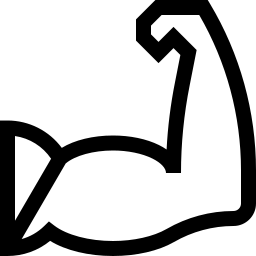
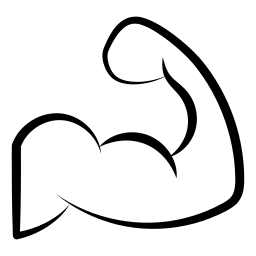
improved staerke image

diff --git a/ImagoApp/ImagoApp/Views/CustomControls/AttributeExperienceDialogView.xaml b/ImagoApp/ImagoApp/Views/CustomControls/AttributeExperienceDialogView.xaml
@@ -59,7 +59,7 @@
                                                         <Style.Triggers>
                                                             <DataTrigger Binding="{Binding .}"
                                                                TargetType="Image" Value="Bewegung">
-                                                                <Setter Property="Source" Value="Images/bewegung.png" />
+                                                                <Setter Property="Source" Value="Images/staerke.png" />
                                                             </DataTrigger>
                                                             <DataTrigger Binding="{Binding .}"
                                                                TargetType="Image" Value="Nahkampf">

diff --git a/ImagoApp/ImagoApp/Views/SkillPage.xaml b/ImagoApp/ImagoApp/Views/SkillPage.xaml
@@ -137,7 +137,7 @@
                                 <RowDefinition Height="Auto" />
                                 <RowDefinition Height="Auto" />
                             </Grid.RowDefinitions>
-                            <customControls:SkillGroupView Grid.Row="0" Grid.Column="0" IconSource="Images/bewegung.png"
+                            <customControls:SkillGroupView Grid.Row="0" Grid.Column="0" IconSource="Images/staerke.png"
                                OpenSkillCommand="{Binding OpenSkillDetailCommand}"
                                OpenSkillGroupCommand="{Binding OpenSkillGroupDetailCommand}"
                                SkillGroupViewModel="{Binding Bewegung}" />
